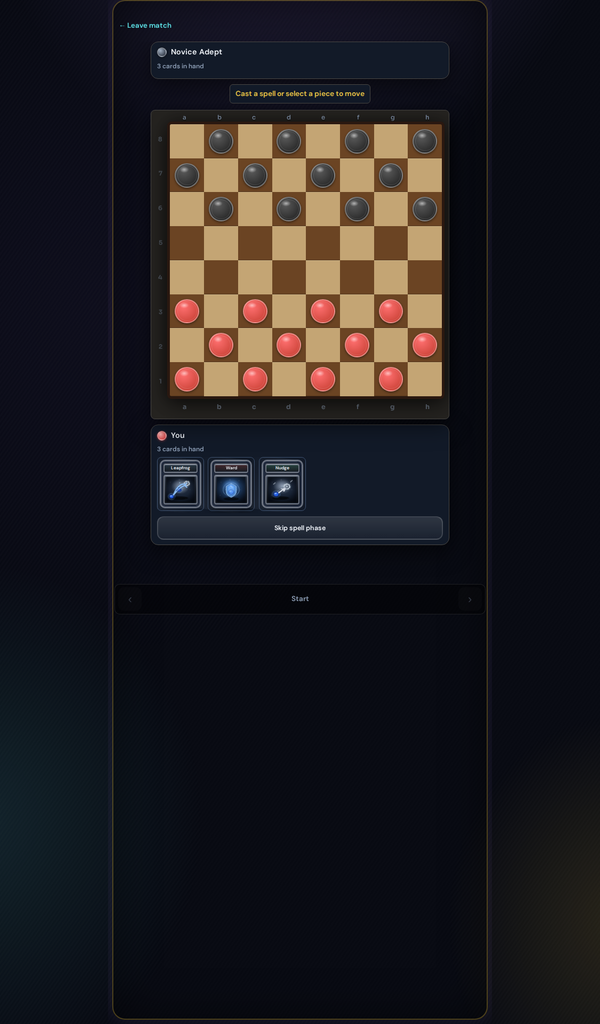
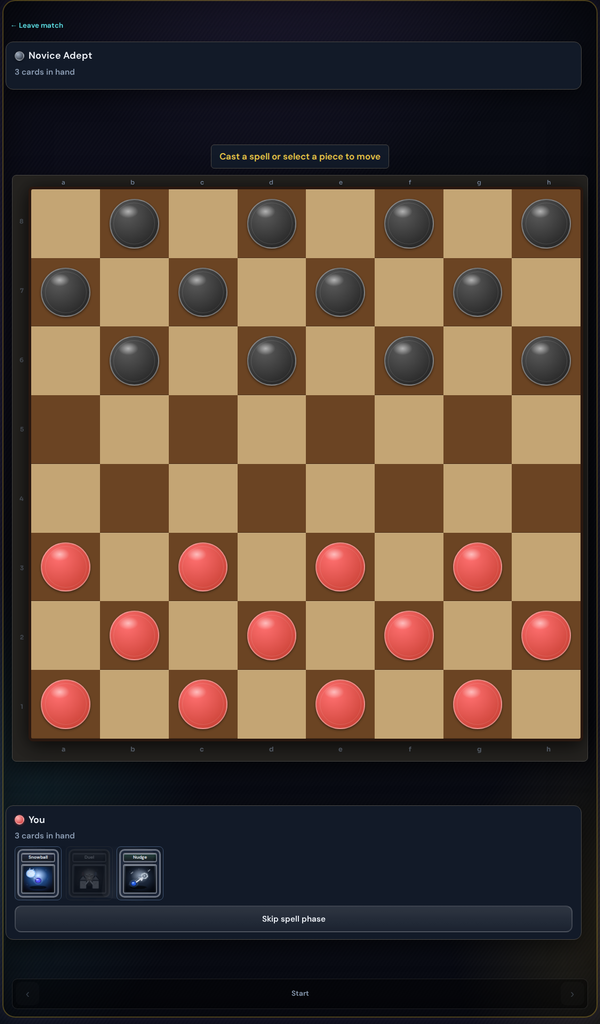
Scale 10-inch tablet layout to fill screen like phone/7-inch (#444)
Add a dedicated 1000-1280px CSS tier that replaces the sparse two-column
tablet rules. The shell widens to ~1140px, shop and quests stay single-column
with larger cards distributed vertically, the adventure tower scales with rem
units, and match view flexes the board to use available height.

diff --git a/css/mobile-game.css b/css/mobile-game.css
@@ -2310,98 +2310,330 @@ body.install-banner-visible.deck-editing .game-shell {
   }
 }
 
-/* ── Tablet portrait (7–10″, ~769–1280 CSS px) — wider shell, denser meta grids ── */
+/* ── Large tablet portrait (10″, ~1000–1280 CSS px) — scaled phone layout, fills height ── */
 
-@media (min-width: 769px) and (max-width: 1280px) {
+@media (min-width: 1000px) and (max-width: 1280px) {
   .game-shell {
-    max-width: 720px;
+    max-width: min(1140px, calc(100% - 1rem));
     margin-inline: auto;
+    padding-left: max(1.15rem, env(safe-area-inset-left));
+    padding-right: max(1.15rem, env(safe-area-inset-right));
   }
 
   .game-shell::before {
-    inset: 0 0.5rem 0.5rem 0.5rem;
+    inset: 0 0.75rem 0.75rem 0.75rem;
   }
 
   .install-banner {
-    max-width: 680px;
+    max-width: min(920px, calc(100% - 1.5rem));
   }
 
-  /* Shop — two-up chest rows fill the wider frame */
+  .panel-opponent,
+  .panel-player {
+    max-width: min(100%, var(--board-fit-width));
+  }
+
+  .game-header {
+    padding: calc(0.85rem + var(--game-safe-top)) 1rem 0.85rem;
+    margin-bottom: 1rem;
+  }
+
+  .game-header__username {
+    font-size: 1.15rem;
+  }
+
+  .hud-gems,
+  .hud-stars {
+    min-height: 52px;
+    padding: 0.4rem 0.65rem;
+    font-size: 1rem;
+  }
+
+  .game-nav .tab-btn,
+  .game-nav .game-nav__btn {
+    font-size: 0.82rem;
+    gap: 0.25rem;
+  }
+
+  /* Meta tabs — stretch scroll area to fill shell height */
+  body.main-tab-active:not(.match-active):not(.deck-editing) .game-main > .view:not(.hidden) {
+    min-height: calc(var(--app-height) - 7.5rem - var(--nav-clearance));
+  }
+
+  body.adventure-active:not(.adventure-floor-open):not(.match-active) .adventure-map-scene {
+    min-height: calc(var(--app-height) - 10rem - var(--nav-clearance));
+  }
+
+  #view-chests .vault-panel {
+    min-height: calc(var(--app-height) - 8rem - var(--nav-clearance));
+    display: flex;
+    flex-direction: column;
+    flex: 1;
+    max-width: 100%;
+  }
+
+  #view-chests .vault-tab-panel {
+    flex: 1;
+    display: flex;
+    flex-direction: column;
+    min-height: 0;
+  }
+
+  #view-chests .chest-list,
+  #view-chests #chest-list {
+    flex: 1;
+    display: flex;
+    flex-direction: column;
+    justify-content: space-evenly;
+    gap: clamp(1rem, 3vh, 2.5rem);
+    margin-top: 0.75rem;
+  }
+
+  #view-profile .profile-panel,
+  #view-quests .quests-panel {
+    min-height: calc(var(--app-height) - 8rem - var(--nav-clearance));
+  }
+
+  #view-chests .panel-head__desc,
+  .vault-section-desc {
+    font-size: 0.95rem;
+  }
+
+  /* Shop — single column, larger cards (same proportions as phone / 7″) */
   .chest-list {
-    grid-template-columns: repeat(2, minmax(0, 1fr));
-    gap: 1rem;
+    grid-template-columns: 1fr;
+    gap: 1.15rem;
   }
 
   .chest-card {
-    flex-direction: column;
+    flex-direction: row;
     align-items: stretch;
-    text-align: center;
+    padding: 1.35rem;
+    text-align: left;
+    flex: 1;
+    min-height: 12rem;
+    max-height: 22rem;
   }
 
   .chest-card__visual {
-    width: auto;
-    height: 5.5rem;
-    margin-bottom: 0.5rem;
+    width: 8.5rem;
+    height: 7.25rem;
+    margin-bottom: 0;
+    flex-shrink: 0;
     align-self: center;
   }
 
   .chest-card__body {
-    text-align: center;
+    text-align: left;
+  }
+
+  .chest-card__tagline,
+  .chest-card__stats {
+    font-size: 1rem;
+  }
+
+  .chest-card__name {
+    font-size: 1.15rem;
+  }
+
+  .chest-card__cost {
+    font-size: 1.35rem;
   }
 
   .chest-card__btn {
-    flex: none;
+    flex: 1 1 100%;
     width: 100%;
-    margin-top: 0.75rem;
+    min-height: 56px;
+    margin-top: 0.85rem;
+    font-size: 1.05rem;
   }
 
   .cosmetic-box-list,
   .mystery-box-list {
-    grid-template-columns: repeat(2, minmax(0, 1fr));
-    gap: 1rem;
+    grid-template-columns: 1fr;
+    gap: 1.15rem;
   }
 
-  .vault-panel {
-    max-width: 100%;
+  .cosmetic-box-card {
+    padding: 1.15rem 1rem;
   }
 
-  /* Quests — two-column achievement grid */
+  /* Quests — single column, larger cards */
   .profile-achievement-grid {
-    grid-template-columns: repeat(2, minmax(0, 1fr));
+    grid-template-columns: 1fr;
     gap: 1rem;
+  }
+
+  .profile-achievement-card {
+    padding: 1.35rem;
+    min-height: 8.5rem;
+  }
+
+  .profile-achievement-card__title {
+    font-size: 1.15rem;
+  }
+
+  .profile-achievement-card__desc {
+    font-size: 1rem;
+  }
+
+  .profile-achievement-card__progress {
+    height: 8px;
+    margin-bottom: 0.5rem;
+  }
+
+  .quests-section-tab {
+    padding: 0.7rem 0.85rem;
+    font-size: 1rem;
   }
 
   .deck-list {
-    grid-template-columns: repeat(3, minmax(0, 1fr));
-    gap: 1rem;
+    grid-template-columns: repeat(2, minmax(0, 1fr));
+    gap: 1.15rem;
+  }
+
+  .deck-row {
+    min-height: 9.5rem;
   }
 
   .collection-grid {
-    grid-template-columns: repeat(4, minmax(0, 1fr));
-  }
-
-  .adventure-map {
     grid-template-columns: repeat(3, minmax(0, 1fr));
   }
 
-  .profile-title-grid {
-    grid-template-columns: repeat(3, minmax(0, 1fr));
+  /* Adventure — scale tower with layout-sized rem units (not transform) */
+  .adventure-map-canvas {
+    min-height: calc(var(--app-height) - 11rem - var(--nav-clearance));
   }
 
-  .profile-cosmetic-grid {
-    grid-template-columns: repeat(3, minmax(0, 1fr));
+  .adventure-map-tower {
+    width: min(94%, 52rem);
+    font-size: 175%;
   }
 
-  /* Match — centered board uses the larger tablet token */
+  .adventure-floor-row {
+    min-height: 4.25rem;
+    padding: 0.95rem 1.1rem;
+  }
+
+  .adventure-floor-row__title {
+    font-size: 1.05rem;
+  }
+
+  .adventure-world-shield {
+    font-size: clamp(0.65rem, 1.2vw, 0.82rem);
+  }
+
+  .adventure-world-shield__icon {
+    width: 1.85rem;
+    height: 2rem;
+  }
+
+  /* Match — fill viewport height and grow the board */
+  body.match-active .game-main {
+    display: flex;
+    flex-direction: column;
+    overflow: hidden;
+    flex: 1 1 0;
+    min-height: 0;
+    padding-bottom: calc(0.35rem + var(--game-safe-bottom));
+  }
+
+  body.match-active #view-match:not(.hidden),
+  body.match-active #view-pvp:not(.hidden) {
+    flex: 1;
+    display: flex;
+    flex-direction: column;
+    min-height: 0;
+  }
+
+  body.match-active .match-wrap,
+  body.match-active .match-scene {
+    flex: 1;
+    display: flex;
+    flex-direction: column;
+    min-height: 0;
+  }
+
+  body.match-active .match-scene {
+    padding-bottom: calc(0.5rem + var(--game-safe-bottom));
+  }
+
+  body.match-active .game-layout {
+    flex: 1;
+    display: flex;
+    flex-direction: column;
+    min-height: 0;
+    width: 100%;
+    gap: 0.65rem;
+  }
+
+  body.match-active .board-section {
+    flex: 1 1 auto;
+    display: flex;
+    flex-direction: column;
+    justify-content: center;
+    align-items: center;
+    width: 100%;
+    min-height: 0;
+  }
+
+  body.match-active .panel-opponent,
+  body.match-active .panel-player {
+    width: min(100%, var(--board-fit-width));
+    max-width: min(100%, var(--board-fit-width));
+    padding: 0.8rem 1rem;
+  }
+
+  body.match-active .panel-opponent .player-badge,
+  body.match-active .panel-player .player-badge {
+    font-size: 1.12rem;
+  }
+
+  body.match-active .hand-count-label {
+    font-size: 0.95rem;
+    margin-bottom: 0.5rem;
+  }
+
   body.match-active .board-wrap {
-    width: min(
+    flex: 1 1 auto;
+    align-self: center;
+    width: auto;
+    height: auto;
+    min-width: 0;
+    min-height: 0;
+    max-width: min(
       100%,
       var(--board-fit-width),
       calc(var(--app-height) - var(--board-v-chrome))
     );
+    max-height: min(
+      100%,
+      var(--board-fit-width),
+      calc(var(--app-height) - var(--board-v-chrome))
+    );
+    aspect-ratio: 1;
+  }
+
+  body.match-active .turn-banner {
+    font-size: 1.05rem;
+    padding: 0.55rem 0.95rem;
+  }
+
+  body.match-active .btn-skip-spell {
+    font-size: 0.95rem;
+    min-height: 50px;
+    padding: 0.6rem 0.85rem;
   }
 
   .hand.spell-hand .spell-card {
-    width: 96px;
+    width: 120px;
+  }
+
+  .match-log {
+    max-width: min(100%, var(--board-fit-width));
+  }
+
+  .match-history-footer {
+    max-width: min(100%, var(--board-fit-width));
   }
 }

diff --git a/css/tokens.css b/css/tokens.css
@@ -69,11 +69,13 @@
   --nav-icon-idle: #8b9cb3;
 }
 
-/* 7–10″ tablets (portrait ~600–1280 CSS px) — larger board, same mobile shell UX */
-@media (min-width: 769px) and (max-width: 1280px) {
+/* 10″ tablets (portrait ~1000–1280 CSS px) — scale up phone layout to fill height */
+@media (min-width: 1000px) and (max-width: 1280px) {
   :root {
-    --board-max-size: 560px;
-    --board-v-chrome: 340px;
+    --board-max-size: 1080px;
+    --board-v-chrome: 480px;
+    --nav-height: 4.75rem;
+    --nav-icon-size: 2.1rem;
   }
 }
 
